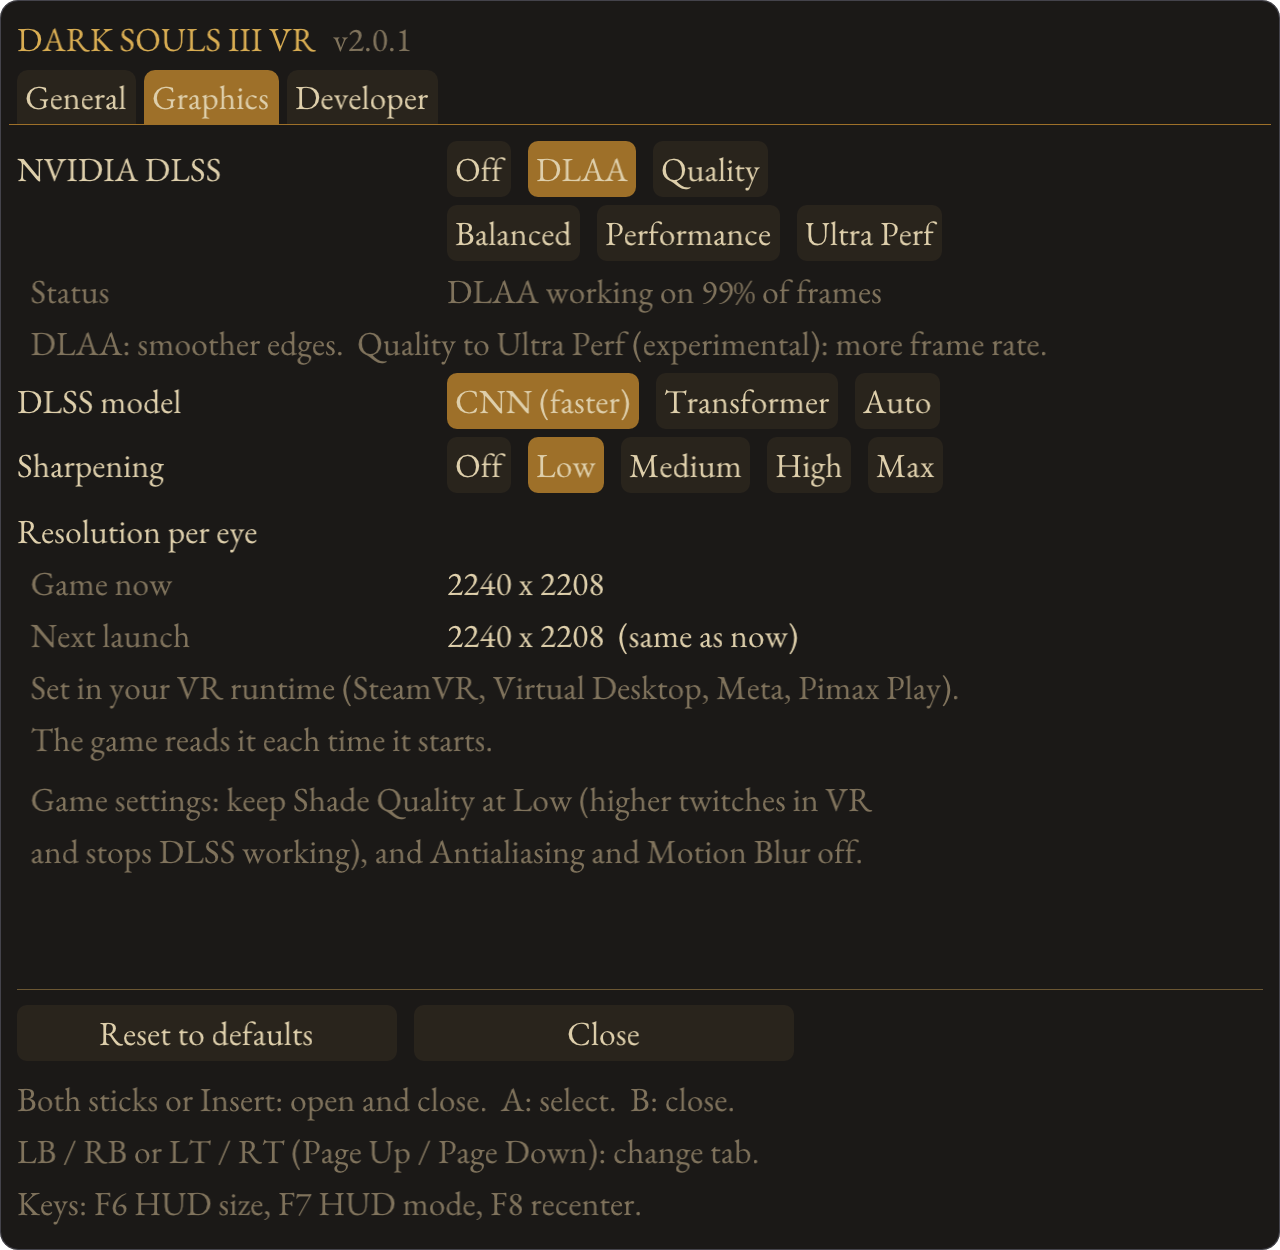
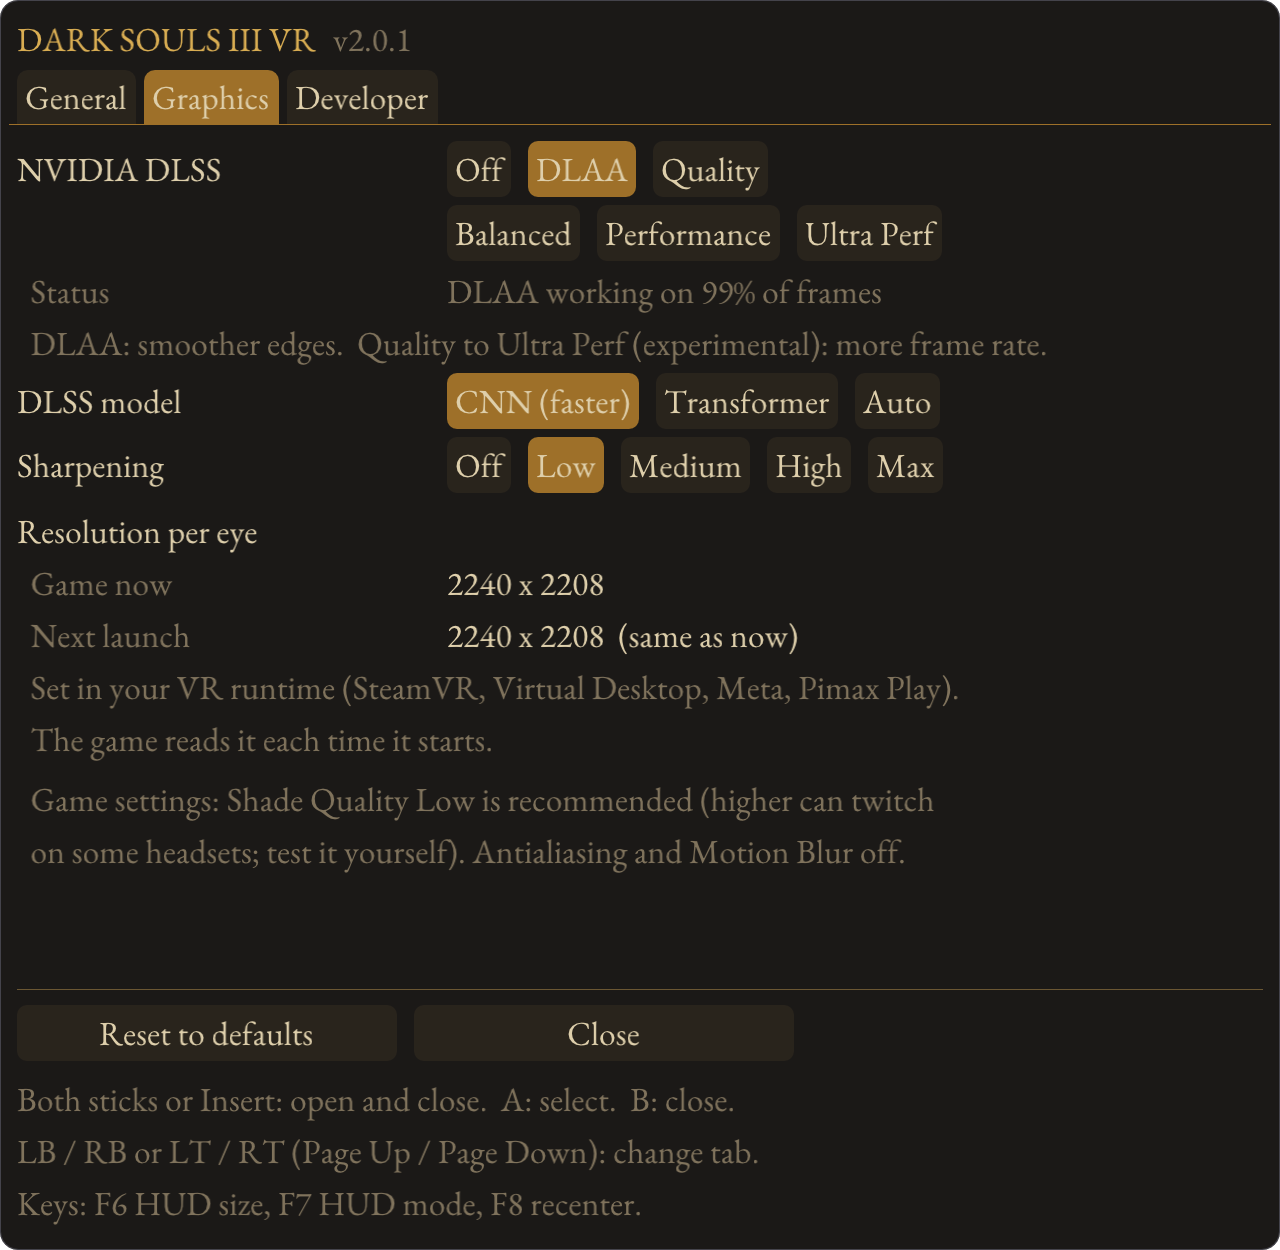
2.0.1: Shade Quality Low only via the installer (no change on update), softer note; DLSS fine-tuning note and reset button
Claude-Session: https://claude.ai/code/session_011sJLWdtYGDZcvPkp2rqMz1

Changed region(s): [[0.0312, 0.624, 0.7188, 0.7176]]

diff --git a/src/menu.cpp b/src/menu.cpp
@@ -360,8 +360,8 @@ void TabGraphics(char* v, size_t vn) {
     ImGui::TextDisabled("  Set in your VR runtime (SteamVR, Virtual Desktop, Meta, Pimax Play).");
     ImGui::TextDisabled("  The game reads it each time it starts.");
     ImGui::Spacing();
-    ImGui::TextDisabled("  Game settings: keep Shade Quality at Low (higher twitches in VR");
-    ImGui::TextDisabled("  and stops DLSS working), and Antialiasing and Motion Blur off.");
+    ImGui::TextDisabled("  Game settings: Shade Quality Low is recommended (higher can twitch");
+    ImGui::TextDisabled("  on some headsets; test it yourself). Antialiasing and Motion Blur off.");
 }
 
 void TabDeveloper(char* v, size_t vn) {
@@ -400,6 +400,12 @@ void TabDeveloper(char* v, size_t vn) {
         if (ImGui::Button(sw ? "Halves swapped" : "Halves normal")) DlssSetHalvesSwapped(!sw);
         snprintf(v, vn, "%+.2f  (offset %+.2f)", DlssMipBias(), DlssMipBiasOffset());
         if (const int d = Stepper("Texture mip bias", v, "mb")) DlssStepMipBiasOffset(d);
+    }
+    if (live != kDlssOff) {
+        ImGui::Spacing();
+        ImGui::TextDisabled("  The defaults suit most setups; the best DLSS settings can differ per");
+        ImGui::TextDisabled("  headset and PC. This button puts them back (so does Reset to defaults).");
+        if (ImGui::Button("DLSS settings to defaults")) DlssResetTuning();
     }
 }
 
@@ -450,6 +456,7 @@ void BuildUi() {
         CamHookSetDecoupledPitch(0);
         DlssSetMode(kDlssOff);
         DlaaSetPreset(6);
+        DlssResetTuning();
         SharpenSetLevel(0);
         SetDevKeys(false);
         Log("menu: settings reset to defaults");

diff --git a/src/rendersize.cpp b/src/rendersize.cpp
@@ -166,25 +166,6 @@ void UpdateGraphicsConfigImpl() {
         Log("RENDERSIZE: GraphicsConfig.xml has no windowed resolution entries; not changed");
         return;
     }
-    // Shade Quality above Low gives a twitchy effect in VR and adds scene-like passes that DLSS can mistake for
-    // the scene. Installs from 2.0.1 set Low; for earlier installs it is set once here, and after that the
-    // player's own choice stands.
-    {
-        const std::wstring ini = std::wstring(ModuleDir()) + L"ds3vr.ini";
-        if (GetPrivateProfileIntW(L"state", L"ShadeQualityLowSet", 0, ini.c_str()) == 0) {
-            const std::wstring o = L"<ShadeQuality>", c = L"</ShadeQuality>";
-            size_t a = xml.find(o), b = a == std::wstring::npos ? a : xml.find(c, a);
-            if (a != std::wstring::npos && b != std::wstring::npos) {
-                const std::wstring was = xml.substr(a + o.size(), b - a - o.size());
-                if (was != L"LOW") {
-                    xml.replace(a + o.size(), b - a - o.size(), L"LOW");
-                    Log("RENDERSIZE: Shade Quality set to Low (was %ls): above Low it twitches in VR and confuses DLSS. "
-                        "This is done once; a later change in the game's menu is kept.", was.c_str());
-                }
-            }
-            WritePrivateProfileStringW(L"state", L"ShadeQualityLowSet", L"1", ini.c_str());
-        }
-    }
     if (xml == before) return;
     f = CreateFileW(path.c_str(), GENERIC_WRITE, 0, nullptr, CREATE_ALWAYS, 0, nullptr);
     if (f == INVALID_HANDLE_VALUE) return;

diff --git a/src/dlss.cpp b/src/dlss.cpp
@@ -1371,6 +1371,15 @@ void DlssStepMipBiasOffset(int dir) {
     Log("DLSS: mip bias offset %.2f (bias in use %.2f)", v, CurrentBias());
 }
 float DlssMipBias() { return CurrentBias(); }
+void DlssResetTuning() {
+    DlaaSetSigns(1.f, 1.f);
+    DlssSetPairPrevious(true);
+    DlssSetHalvesSwapped(true);
+    g_biasOffset = -1.f;
+    g_biasGen.fetch_add(1);
+    WritePrivateProfileStringW(L"ds3vr", L"DlssMipBiasOffset", L"-1.00", Ini().c_str());
+    Log("DLSS: tuning settings back to defaults (jitter +, eyes +, previous frame, halves swapped, mip bias offset -1)");
+}
 
 bool DlaaBusy() { return g_busy.load(std::memory_order_relaxed); }
 

diff --git a/src/dlss.h b/src/dlss.h
@@ -69,6 +69,7 @@ bool DlssHalvesSwapped();         // upscaling: geo-11's left half holds slice 1
 void DlssSetHalvesSwapped(bool on);
 float DlssMipBiasOffset();        // added to log2(render / headset) for scene textures (NVIDIA: -1)
 void DlssStepMipBiasOffset(int dir);
+void DlssResetTuning();           // the test settings above back to their defaults (saved)
 float DlssMipBias();              // the bias in use (0 when not upscaling)
 
 // Called from the context hooks in drawlog.cpp.

diff --git a/tools/menushots/harness.cpp b/tools/menushots/harness.cpp
@@ -61,6 +61,7 @@ void DlssSetHalvesSwapped(bool) {}
 float DlssMipBias() { return 0.f; }
 float DlssMipBiasOffset() { return -1.f; }
 void DlssStepMipBiasOffset(int) {}
+void DlssResetTuning() {}
 constexpr int kSharpenLevels = 5;
 static const char* kSharpNames[kSharpenLevels] = {"Off", "Low", "Medium", "High", "Max"};
 int SharpenLevel() { return s_sharp; }

diff --git a/dist/release-notes/2.0.1.md b/dist/release-notes/2.0.1.md
@@ -1,15 +1,16 @@
 DS3 VR 2.0.1: DLSS fixes. DLAA now works on PCs where 2.0 missed most frames, and DLSS can no longer make the picture worse than off.
 
 **Fixed**
-- **DLSS and DLAA missed most frames on many PCs.** DLSS has to run on the game's 3D image at one exact moment each frame. With the game's Shade Quality above Low (the default on most PCs), DS3 draws several look-alike images, and 2.0 kept switching between them, so DLAA rarely ran and the upscaling modes got no motion data. The mod now picks the image the game actually goes on to use, however many look-alikes there are.
+- **DLSS and DLAA missed most frames on many PCs.** DLSS has to run on the game's 3D image at one exact moment each frame. With some graphics settings (for example Shade Quality above Low, the default on most PCs), DS3 draws several look-alike images, and 2.0 kept switching between them, so DLAA rarely ran and the upscaling modes got no motion data. The mod now picks the image the game actually goes on to use, however many look-alikes there are.
 - **A DLSS miss made the picture worse than DLSS off.** The camera jitter and texture sharpening DLSS needs stayed on even on frames DLSS did not process, which shimmered and aliased. They now switch off whenever DLSS is not doing its job, so the worst case looks like DLSS off.
 - **Upscaling defaults:** the DLSS pairing (Previous frame) and halves (swapped) defaults now match geo-11's stereo image, so the upscaling modes get the right eye's depth and motion.
 
 **Changed**
-- **Shade Quality is set to Low.** Above Low it causes a twitchy effect in VR and confuses DLSS. New installs set it, and updating sets it once; if you change it back in the game's menu afterwards, your choice is kept.
+- **The installer sets Shade Quality to Low.** Higher settings can cause a twitchy effect in VR on some headsets. DLSS now works either way, so if you raise it, test it on your own headset. Updating does not change your setting.
 - **The DLSS Status line shows how often DLSS is really working**, e.g. "DLAA working on 99% of frames", instead of just "running".
 - **The upscaling modes (Quality to Ultra Perf) are marked experimental.** Because geo-11 makes the stereo image, DLSS upscales the finished picture, after the game's effects, so they look softer than DLSS does in a normal game. DLAA does not have this limit and is the recommended DLSS setting.
 - The Graphics tab has a note about the game settings that matter in VR.
+- **DLSS fine-tuning:** the Developer tab's DLSS settings (jitter and eye directions; for upscaling also pairing, halves and texture mip bias) can be tuned per headset and PC, since no single setting suits every setup. A new "DLSS settings to defaults" button, and Reset to defaults, put them back.
 
 **Tip:** on mid-range RTX cards, the CNN DLSS model (the default) costs about half as much as Transformer.
 

diff --git a/README.md b/README.md
@@ -90,10 +90,14 @@ The Status line on the Graphics tab shows how often DLSS is actually doing its j
 "DLAA working on 99% of frames". If DLSS misses frames, the mod turns its camera jitter and texture
 sharpening off for them, so a miss looks like DLSS off rather than worse.
 
+**Fine-tuning:** with Developer mode on, the Developer tab has the DLSS test settings (jitter and eye
+directions, and for the upscaling modes the frame pairing, halves and texture mip bias). The defaults
+suit most setups, but the best values can differ per headset and PC, so feel free to experiment.
+"DLSS settings to defaults" (or Reset to defaults) puts them back.
+
 ### Graphics settings
 
-The install step sets these for you. Keep Shade Quality at Low and Motion Blur and Depth of Field off;
-the rest is up to you.
+The install step sets these for you. Keep Motion Blur and Depth of Field off; the rest is up to you.
 
 | Setting | Set to | Why |
 |---|---|---|
@@ -102,7 +106,7 @@ the rest is up to you.
 | Depth of Field | Off | It blurs whatever you are not looking at in VR |
 | Ambient Occlusion | Off | In 3D it can show noise in lit areas |
 | Antialiasing | Off | Use DLAA instead (RTX cards); the game's own is not needed |
-| Shade Quality | Low | Higher settings cause a twitchy effect in VR and stop DLSS finding the 3D image. DS3 VR 2.0.1 sets it to Low once when you update; you can change it back. |
+| Shade Quality | Low (recommended) | Higher settings can cause a twitchy effect in VR on some headsets. If you raise it, test it on your own headset. |
 
 Do not change the resolution or screen mode in the game's own menu while playing: the game would
 rebuild its graphics, which the stereo driver does not survive.
@@ -149,9 +153,9 @@ status line under the DLSS setting says why it is off. Check that `ds3vr_ngx.dll
 and `NVIDIA_DLSS_LICENSE.txt` are in `Game\ds3vr`. An upscaling mode only applies after a restart.
 
 **DLSS looks blurry, aliased or shimmery.** Check the Status line on the Graphics tab: it should say
-DLSS is working on nearly all frames. If not, set the game's Shade Quality to Low and Antialiasing
-and Motion Blur off. The upscaling modes (Quality to Ultra Perf) are experimental and always softer
-than DLAA.
+DLSS is working on nearly all frames. Keep the game's Antialiasing and Motion Blur off. The upscaling
+modes (Quality to Ultra Perf) are experimental and always softer than DLAA; the Developer tab's DLSS
+settings can be tuned for your headset (see Fine-tuning above).
 
 **The image looks soft.** Try Sharpening on the Graphics tab (Low or Medium is usually enough).
 
